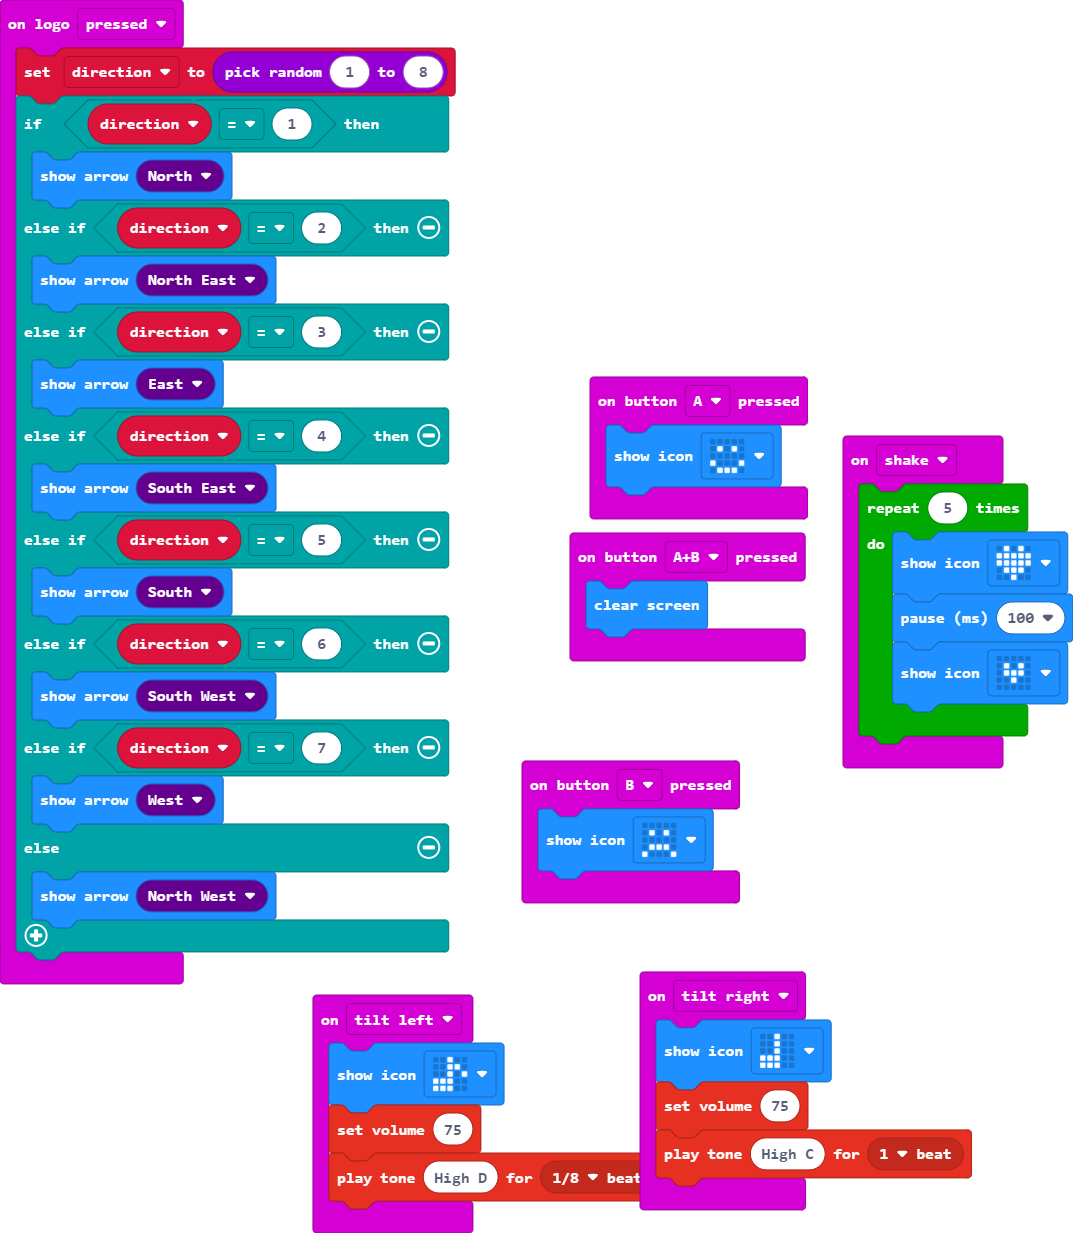
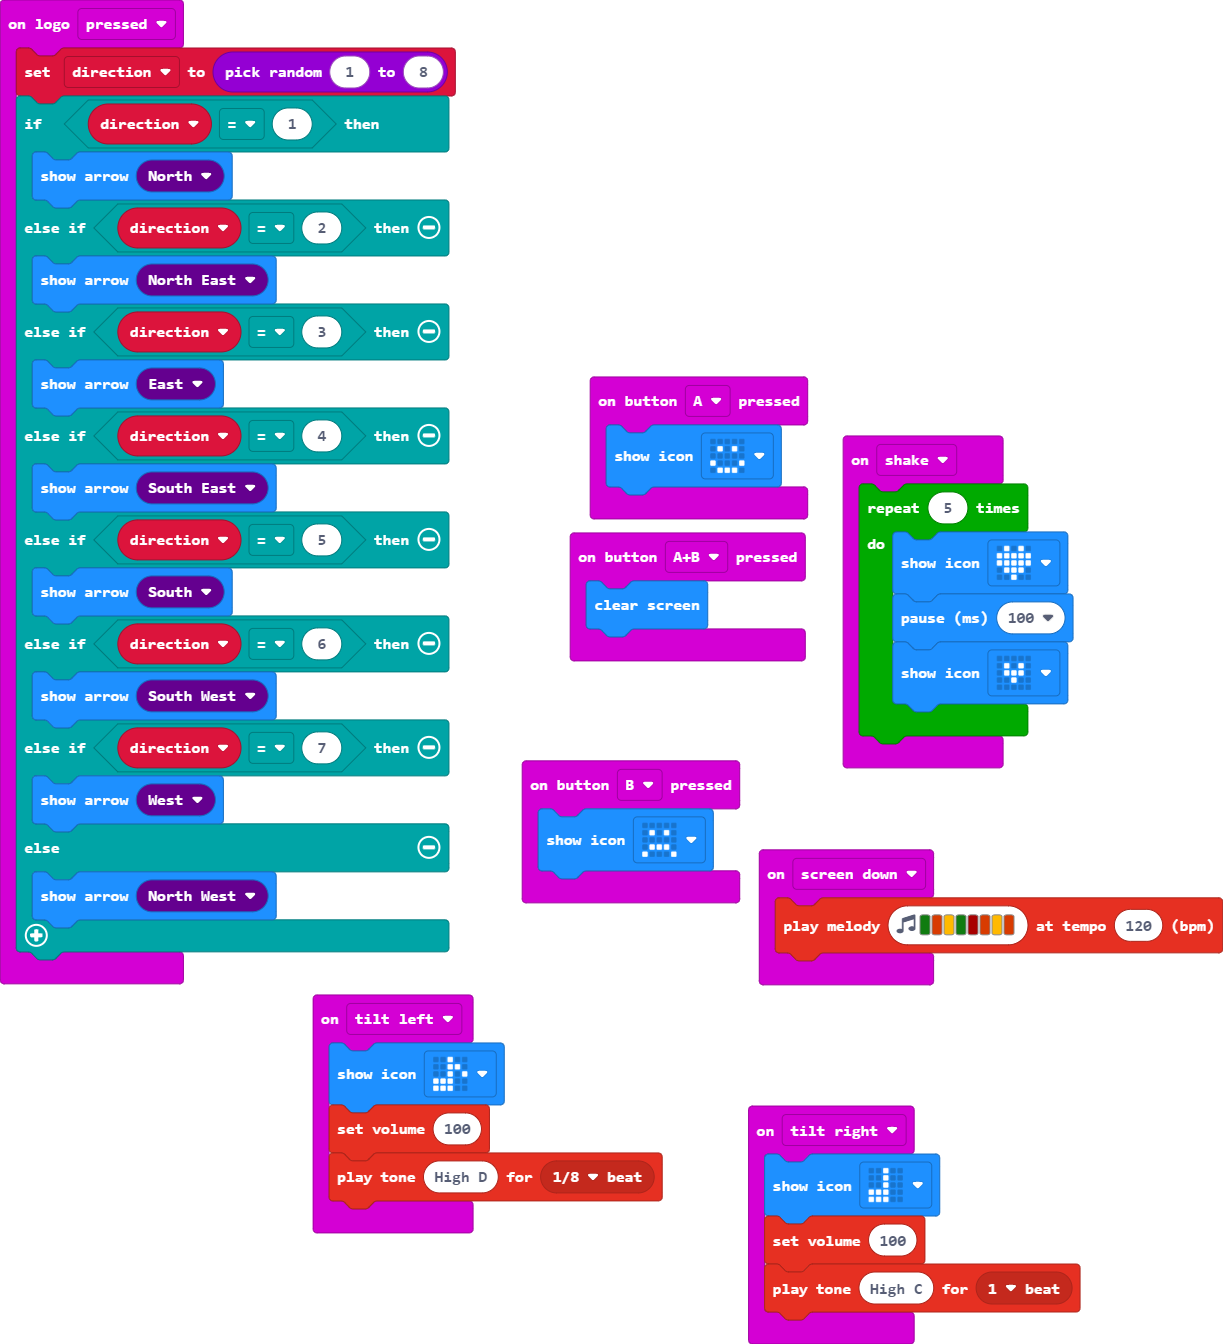
Update main.blocks, main.ts

diff --git a/main.ts b/main.ts
@@ -4,8 +4,11 @@ input.onButtonPressed(Button.A, function () {
 })
 input.onGesture(Gesture.TiltLeft, function () {
     basic.showIcon(IconNames.EigthNote)
-    music.setVolume(75)
+    music.setVolume(100)
     music.playTone(587, music.beat(BeatFraction.Eighth))
+})
+input.onGesture(Gesture.ScreenDown, function () {
+    music.playMelody("G B A G C5 B A B ", 120)
 })
 input.onButtonPressed(Button.AB, function () {
     basic.clearScreen()
@@ -22,7 +25,7 @@ input.onGesture(Gesture.Shake, function () {
 })
 input.onGesture(Gesture.TiltRight, function () {
     basic.showIcon(IconNames.QuarterNote)
-    music.setVolume(75)
+    music.setVolume(100)
     music.playTone(523, music.beat(BeatFraction.Whole))
 })
 input.onLogoEvent(TouchButtonEvent.Pressed, function () {
